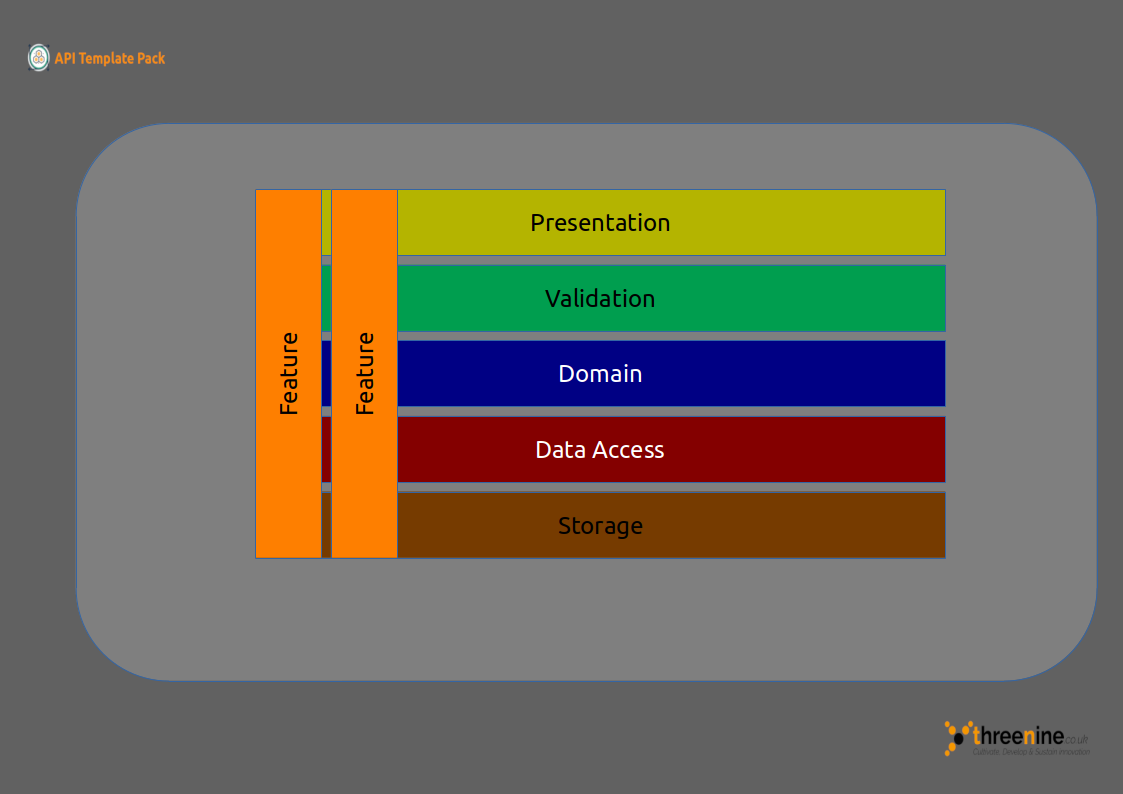
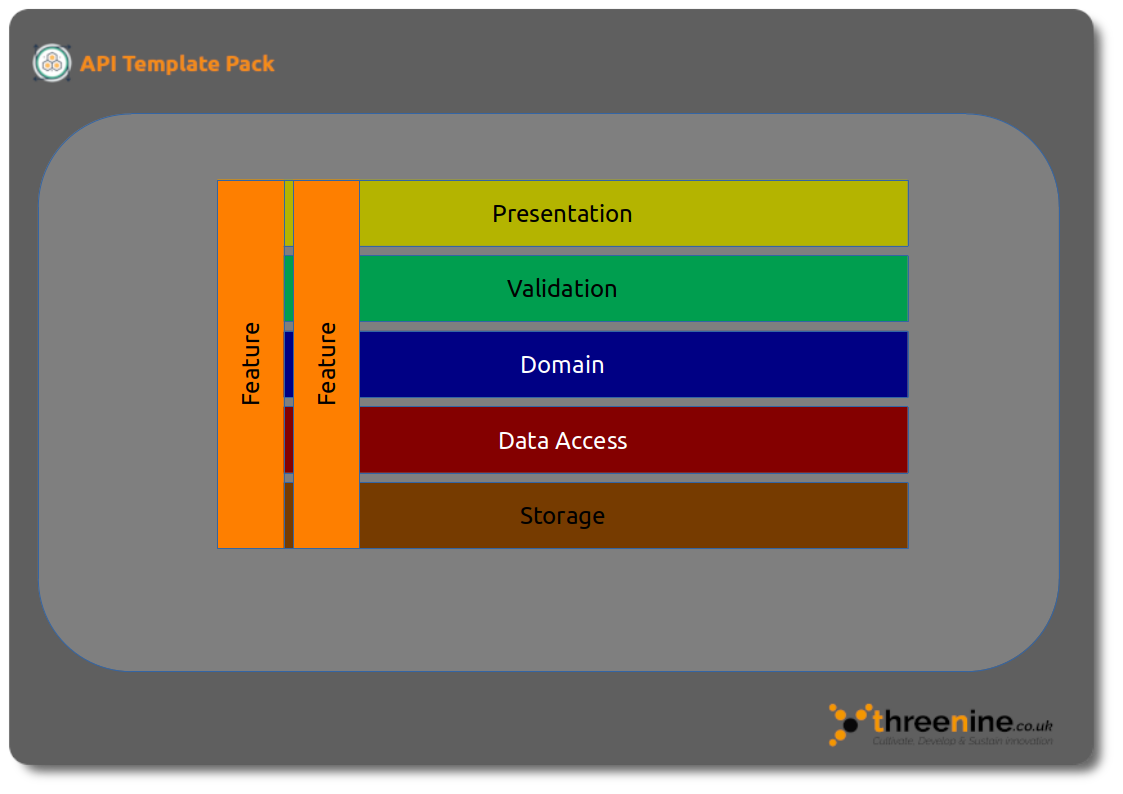
Tweaking documentation for marketing purposes

Changed region(s): [[0.0, 0.0, 1.0, 1.0], [0.187, 0.2116, 0.8415, 0.7254]]

diff --git a/docs/docs/introduction/vertical-slice.md b/docs/docs/introduction/vertical-slice.md
@@ -57,7 +57,7 @@ Enforcing high cohesion within a slice, code for the feature is only used by the
 
 Layered architecture or as it is also commonly known Onion Architecture or Hexagonal Architecture or even N-Tier architecture is almost the defacto pattern that a majority of developers will try to implement when starting to develop systems.  Primarily, because it is the by far the easiest and simplest pattern to understand for many it makes logical sense. But, this does not mean to say it makes it the best choice for all software applications. 
 
-In fact, in the [Fundamentals of Software Architecture: An Engineering Approach](https://amzn.to/3zz8apP) the overall ranking of the pattern is poor to medium and only really excels in the Simplicity and initial cost of development but generally rates poorly in most other catergories.
+In fact, in the [Fundamentals of Software Architecture: An Engineering Approach](https://amzn.to/3zz8apP) the overall ranking of the pattern is poor to medium and only really excels in *simplicity and initial cost of development* but generally rates poorly in most other categories, including **scalability, elasticity, evolutionary, modularity and deployability**.
 
 In some respects belief in the Layered Architecture pattern has reached religious proportions with many developers attempting to justify and defend it against all odds.
 
@@ -69,3 +69,4 @@ The API Template Pack does not necessarily stop or get in the way of you impleme
 - [Vertical Slice Architecture - Jimmy Bogard](https://jimmybogard.com/vertical-slice-architecture/ "Vertical Slice Architecture - Jimmy Bogard")
 - [How to Implement Vertical Slice Architecture - Gary Woodfine](https://garywoodfine.com/implementing-vertical-slice-architecture/ "How to Implement Vertical Slice Architecture - Gary Woodfine")
 - [Book Review: Fundamentals of Software Architecture](https://garywoodfine.com/book-review-fundamentals-of-software-architecture "Book Review: Fundamentals of Software Architecture - Gary Woodfine")
+- [Why I don’t like layered architecture for microservices](https://garywoodfine.com/why-i-dont-like-layered-architecture-for-microservices/ "Why I don’t like layered architecture for microservices - Gary Woodfine")

diff --git a/docs/docs/introduction/repr-pattern.md b/docs/docs/introduction/repr-pattern.md
@@ -3,7 +3,7 @@ layout: default
 title: "REPR pattern"
 parent: Introduction
 description: "The REPR pattern is a software design pattern for developing API Endpoints implementing a simple _Request EndPoint Response_ flow."
-image: "../../../assets/images/repr-pattern.png"
+image: "../../../assets/images/twitter/repr-pattern.png"
 nav_order: 4
 ---
 # What is the REPR design pattern

diff --git a/docs/docs/changelog/changelog.md b/docs/docs/changelog/changelog.md
@@ -7,6 +7,12 @@ permalink: /docs/changelog
 
 # Change log
 
+### 3.2.91
+
+#### Updates
+
+* Tweak to Twitter Card images - [@gary_woodfine](https://twitter.com/gary_woodfine)
+
 
 ### 3.2.90
 
